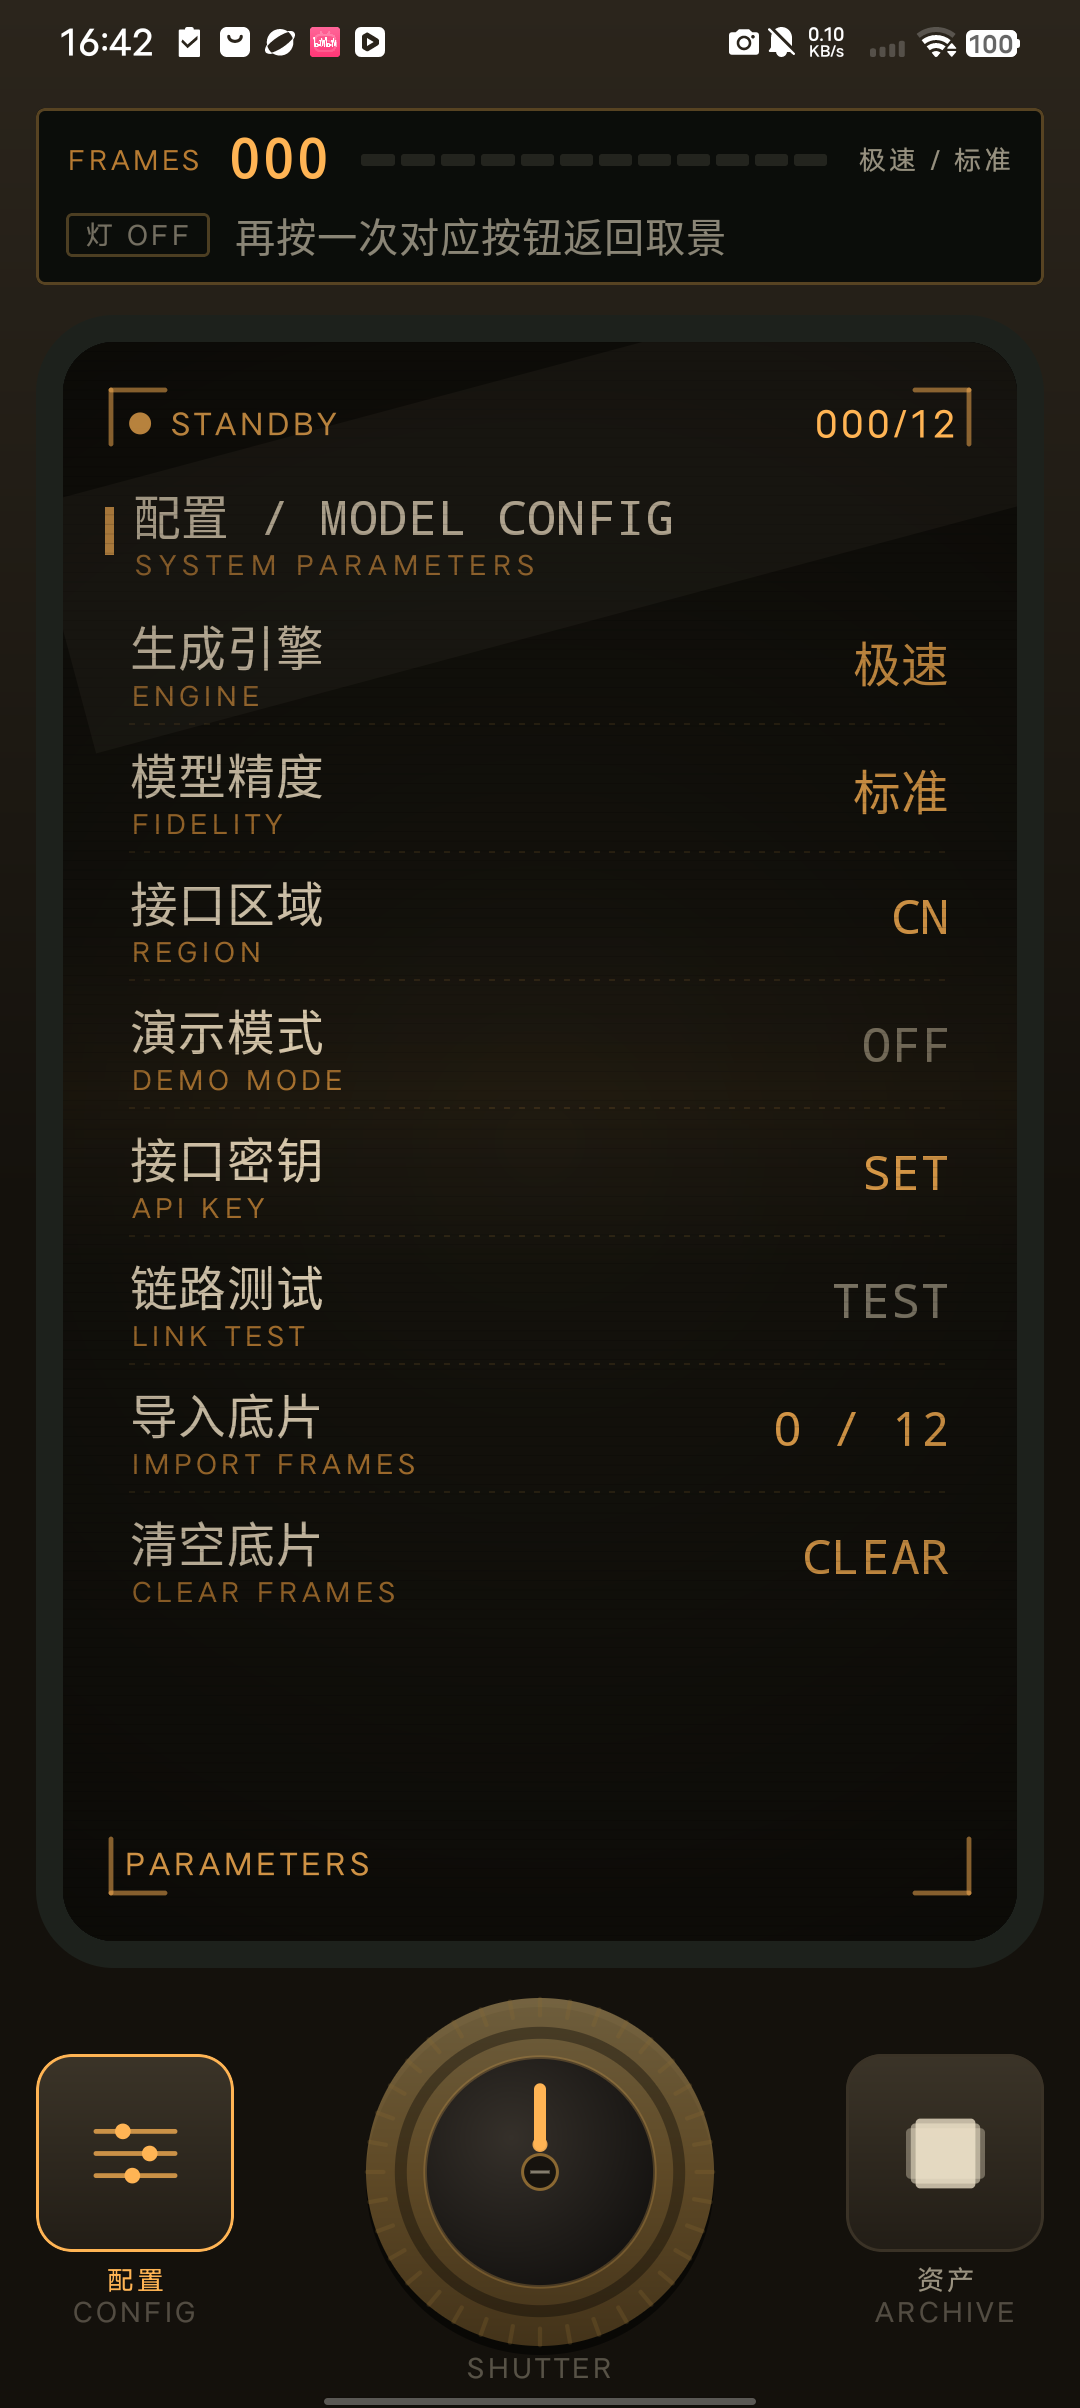
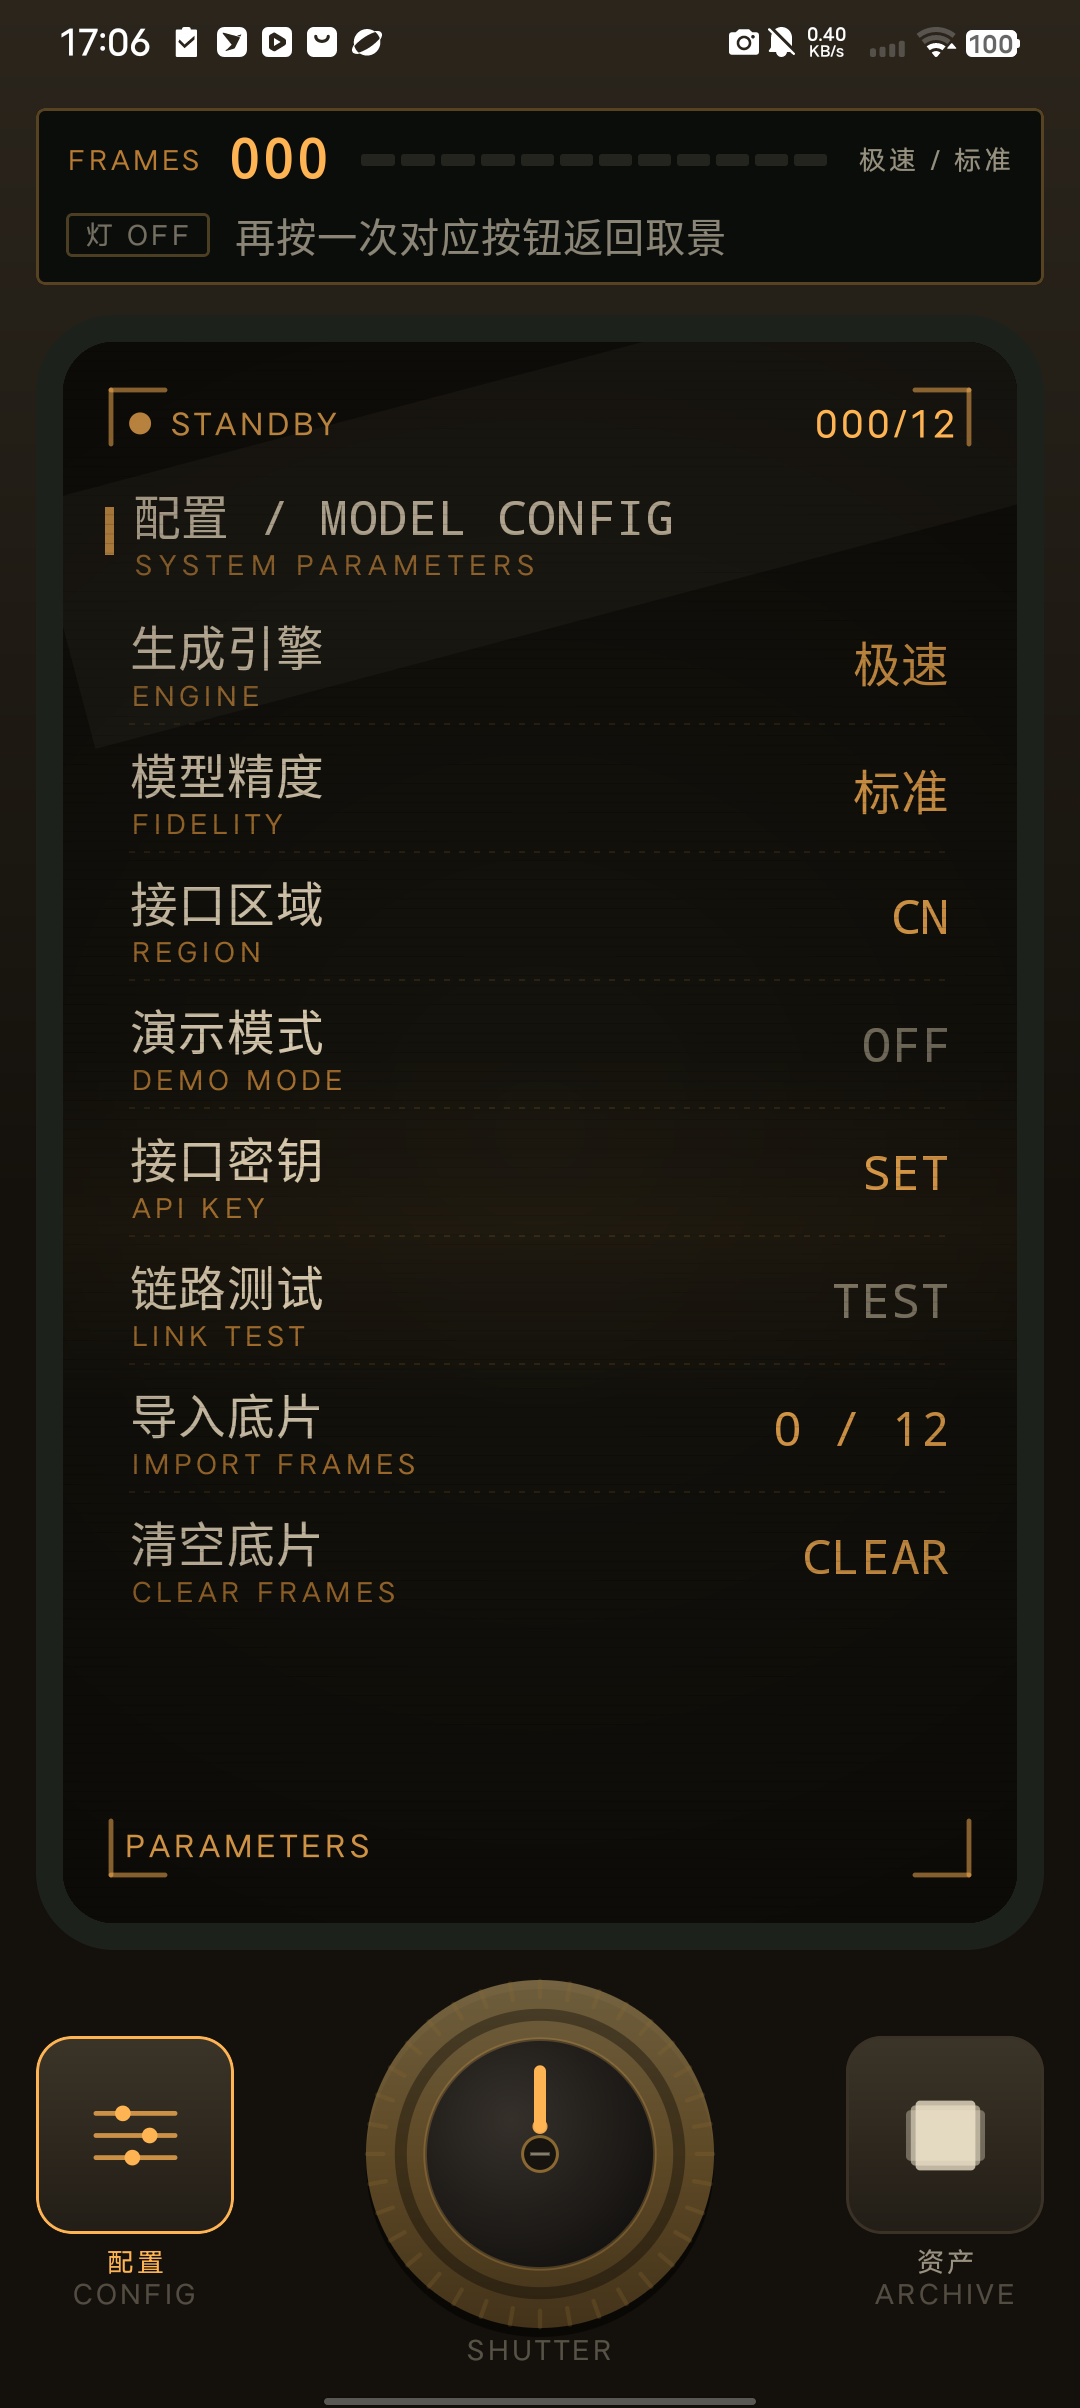
fix: 平放时 HUD 误转 90 度
重力在屏幕平面的分量过小时角度不可靠，保持上一次方向

diff --git a/app/src/main/java/com/shiwu/scan3d/ui/device/DeviceScreen.kt b/app/src/main/java/com/shiwu/scan3d/ui/device/DeviceScreen.kt
@@ -749,8 +749,13 @@ private fun rememberHudRotation(): Int {
         val listener = object : SensorEventListener {
             override fun onSensorChanged(event: SensorEvent) {
                 if (event.sensor.type != Sensor.TYPE_ACCELEROMETER) return
-                smoothX = smoothX * 0.82f + event.values[0] * 0.18f
-                smoothY = smoothY * 0.82f + event.values[1] * 0.18f
+                val ax = event.values[0]
+                val ay = event.values[1]
+                // 平放在桌上时重力几乎全在 Z 轴，平面分量很小，角度不可靠：
+                // 此时保持上一次方向，避免噪声把 HUD 甩到 90°。
+                if (Math.hypot(ax.toDouble(), ay.toDouble()) < 2.5) return
+                smoothX = smoothX * 0.82f + ax * 0.18f
+                smoothY = smoothY * 0.82f + ay * 0.18f
                 val deg = Math.toDegrees(
                     kotlin.math.atan2(smoothX.toDouble(), smoothY.toDouble())
                 ).toFloat()
